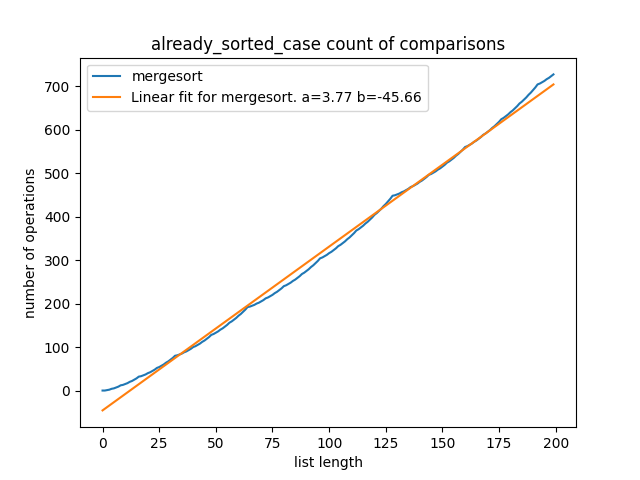
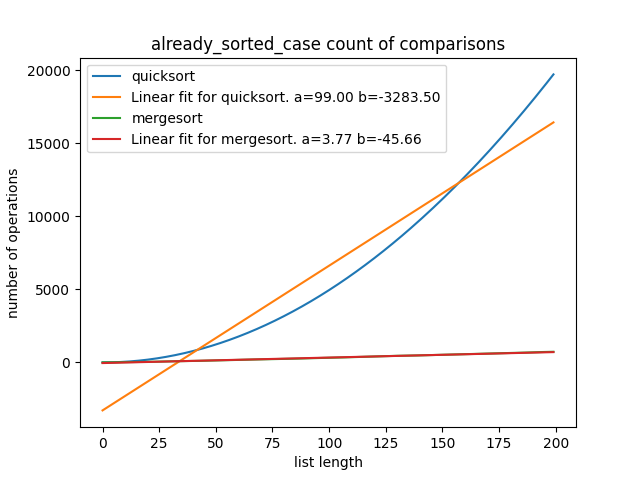
fixed bug in lab 2

diff --git a/Labs (Recitations)/r02/lab2_template.py b/Labs (Recitations)/r02/lab2_template.py
@@ -98,9 +98,9 @@ def merge_step(arr1: list[int], arr2: list[int]) -> list[int]:
     '''
     outputlist = []
     while len(arr1) * len(arr2) > 0:
-        comparison_value = compare(arr1, arr2)
+        comparison_value = compare(arr1[0], arr2[0])
         if comparison_value==-1: #arr1[0]<arr2[0]
-            outputlist.append(arr1.pop(0))
+            outputlist.append(arr1.pop(0)) #note that list.pop(0) is slow.
         else:
             #TODO: put the smallest element of arr2 onto the end of outputlist. (1 line)
             pass #remove this word pass. It serves to prevent a syntax error from the empty 'else' block.
@@ -127,7 +127,7 @@ def quicksort(arr: list[int]) -> list[int]:
     if len(arr) <= 1:
         return arr[:]
     
-    pivot_index = 0 #assume the zeroth is the pivot
+    pivot_index = 0 #assume the zeroth is the pivot. Intentionally naive.
     left = []
     middle = [arr[pivot_index]]
     right = []
